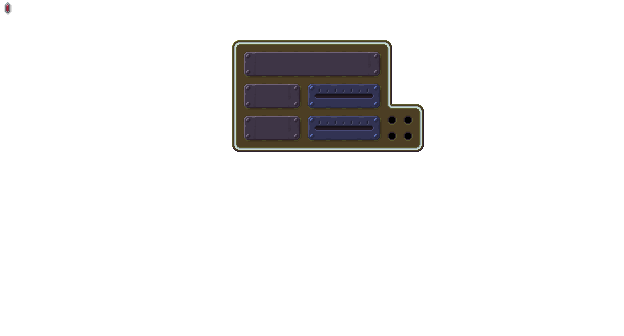
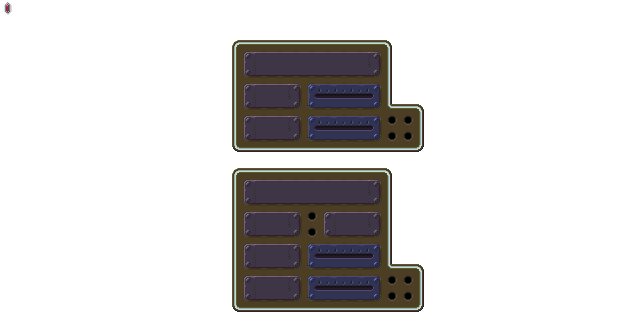
play options layout/art finalized

Changed region(s): [[0.3654, 0.4762, 0.7003, 0.9524]]

diff --git a/js/playOptions.js b/js/playOptions.js
@@ -20,17 +20,18 @@ import { Serialization } from './serialization.js';
 
 let titleColor = Resurrect64.colors[7];
 let textColor = Resurrect64.colors[11];
-let buttonTextColor = Resurrect64.colors[1];
+let buttonTextColor = Resurrect64.colors[0];
 let buttonTextHLColor = Resurrect64.colors[18];
 
 function button(text, spec) {
     return new UxButton(Object.assign({}, {
-        textXform: new XForm({offset: 25}),
+        //textXform: new XForm({offset: 25}),
         highlight: Sketch.zero,
         unpressed: Sketch.zero,
         pressed: Sketch.zero,
         text: new Text({text: text, color: buttonTextColor}),
         hltext: new Text({text: text, color: buttonTextHLColor}),
+        mouseClickedSound: Assets.get('menu.click', true),
     }, spec));
 }
 
@@ -40,53 +41,50 @@ class PlayOptions extends UxView {
         super.cpost(spec);
         this.doSave = spec.doSave;
         this.adopt(new UxPanel({
-            sketch: Assets.get('options.bg', true),
+            sketch: Assets.get('options-play.bg', true),
             children: [
                 new UxText({
                     text: new Text({text: 'options', color: titleColor}),
-                    xform: new XForm({ top: .05, bottom: .85}),
+                    xform: new XForm({ left: 2/13, right: 4/13, top: 1.5/10, bottom: 7.5/10}),
                 }),
-                new UxPanel({
-                    sketch: Sketch.zero,
-                    xform: new XForm({ top: .2 }),
-                    children: [
-                        button('   save   ', { tag: 'options.save', xform: new XForm({top: .0, bottom: .8}) }),
-                        button('   quit   ', { tag: 'options.quit', xform: new XForm({top: .2, bottom: .6}) }),
 
-                        new UxPanel({
-                            sketch: Sketch.zero, 
-                            xform: new XForm({ top: .4, bottom: .4}),
-                            children: [
-                                new UxText({
-                                    text: new Text({text: 'music volume', color: textColor}),
-                                    xform: new XForm({ top: .1, bottom: .1, left: .1, right: .6}),
-                                }),
-                                new UxSlider({
-                                    tag: 'music.slider',
-                                    value: AudioSystem.getVolume('music'),
-                                    xform: new XForm({ top: .2, bottom: .2, left: .45, right: .1}),
-                                }),
-                            ],
-                        }),
+                button('   save   ', { tag: 'options.save', xform: new XForm({left: 1.5/13, right: 8.5/13, top: 3.5/10, bottom: 5.5/10}) }),
+                button('   quit   ', { tag: 'options.quit', xform: new XForm({left: 6.5/13, right: 3.5/13, top: 3.5/10, bottom: 5.5/10}) }),
 
-                        new UxPanel({
-                            sketch: Sketch.zero, 
-                            xform: new XForm({ top: .6, bottom: .2}),
-                            children: [
-                                new UxText({
-                                    text: new Text({text: '  sfx volume', color: textColor}),
-                                    xform: new XForm({ top: .1, bottom: .1, left: .1, right: .6}),
-                                }),
-                                new UxSlider({
-                                    tag: 'sfx.slider',
-                                    value: AudioSystem.getVolume('sfx'),
-                                    xform: new XForm({ top: .2, bottom: .2, left: .45, right: .1}),
-                                }),
-                            ],
-                        }),
+                new UxText({
+                    text: new Text({text: 'music volume', color: textColor}),
+                    xform: new XForm({ left: 1.6/13, right: 8.5/13, top: 5.5/10, bottom: 3.5/10}),
+                }),
+                new UxSlider({
+                    tag: 'music.slider',
+                    value: AudioSystem.getVolume('music'),
+                    xform: new XForm({left: 5.75/13, right: 3.75/13, top: 5.25/10, bottom: 3.25/10}),
+                    knob: Assets.get('volume.knob', true, { lockRatio: true }),
+                    bar: Sketch.zero,
+                    knobWidthPct: .15,
+                }),
 
-                        button('   back   ', { tag: 'options.back', xform: new XForm({top: .8, bottom: 0}) }),
-                    ],
+                new UxText({
+                    text: new Text({text: 'sfx volume', color: textColor}),
+                    xform: new XForm({ left: 1.6/13, right: 8.5/13, top: 7.5/10, bottom: 1.5/10}),
+                }),
+                new UxSlider({
+                    tag: 'sfx.slider',
+                    value: AudioSystem.getVolume('sfx'),
+                    xform: new XForm({left: 5.75/13, right: 3.75/13, top: 7.25/10, bottom: 1.25/10}),
+                    knob: Assets.get('volume.knob', true, { lockRatio: true }),
+                    bar: Sketch.zero,
+                    knobWidthPct: .15,
+                }),
+
+                new UxButton({
+                    tag: 'options.back',
+                    unpressed: Assets.get('hud.cancel.unpressed', true),
+                    pressed: Assets.get('hud.cancel.pressed', true),
+                    highlight: Assets.get('hud.cancel.highlight', true),
+                    xform: new XForm({left: 10/13, right: 1/13, top: 7/10, bottom: 1/10}),
+                    text: Text.zero,
+                    mouseClickedSound: Assets.get('menu.click', true),
                 }),
 
             ],
@@ -123,6 +121,7 @@ class PlayOptions extends UxView {
     onSaveClicked(evt) {
         console.log(`onSaveClicked`);
         if (this.doSave) this.doSave();
+        this.destroy();
     }
 
     onQuitClicked(evt) {

diff --git a/js/assets.js b/js/assets.js
@@ -2737,6 +2737,7 @@ let miniaAssets = [
     Sprite.xspec({tag: 'help.prev.highlight', img: new SheetRef({src: 'img/help-layout.png', width: 32, height: 32, x: 16*2, y: 16*4})}),
 
     Sprite.xspec({tag: 'options.bg', img: new SheetRef({src: 'img/options-layout.png', width: 16*13, height: 16*8, x: 16*14, y: 16*2})}),
+    Sprite.xspec({tag: 'options-play.bg', img: new SheetRef({src: 'img/options-layout.png', width: 16*13, height: 16*10, x: 16*14, y: 16*10})}),
     Sprite.xspec({tag: 'volume.knob', img: new SheetRef({src: 'img/options-layout.png', width: 8, height: 13, x: 4, y: 2})}),
 
 ];

diff --git a/js/playState.js b/js/playState.js
@@ -571,6 +571,7 @@ class PlayState extends GameState {
         let options = new PlayOptions({
             doSave: this.doSave.bind(this),
             xform: new XForm({border: .2}),
+            xform: new XForm({left: 13/39, right: 13/39, top: 5/21, bottom: 6/21, width: 13, height: 10, lockRatio: true}),
         });
         options.evt.listen(options.constructor.evtDestroyed, () => {
             this.lvl.active = true;
